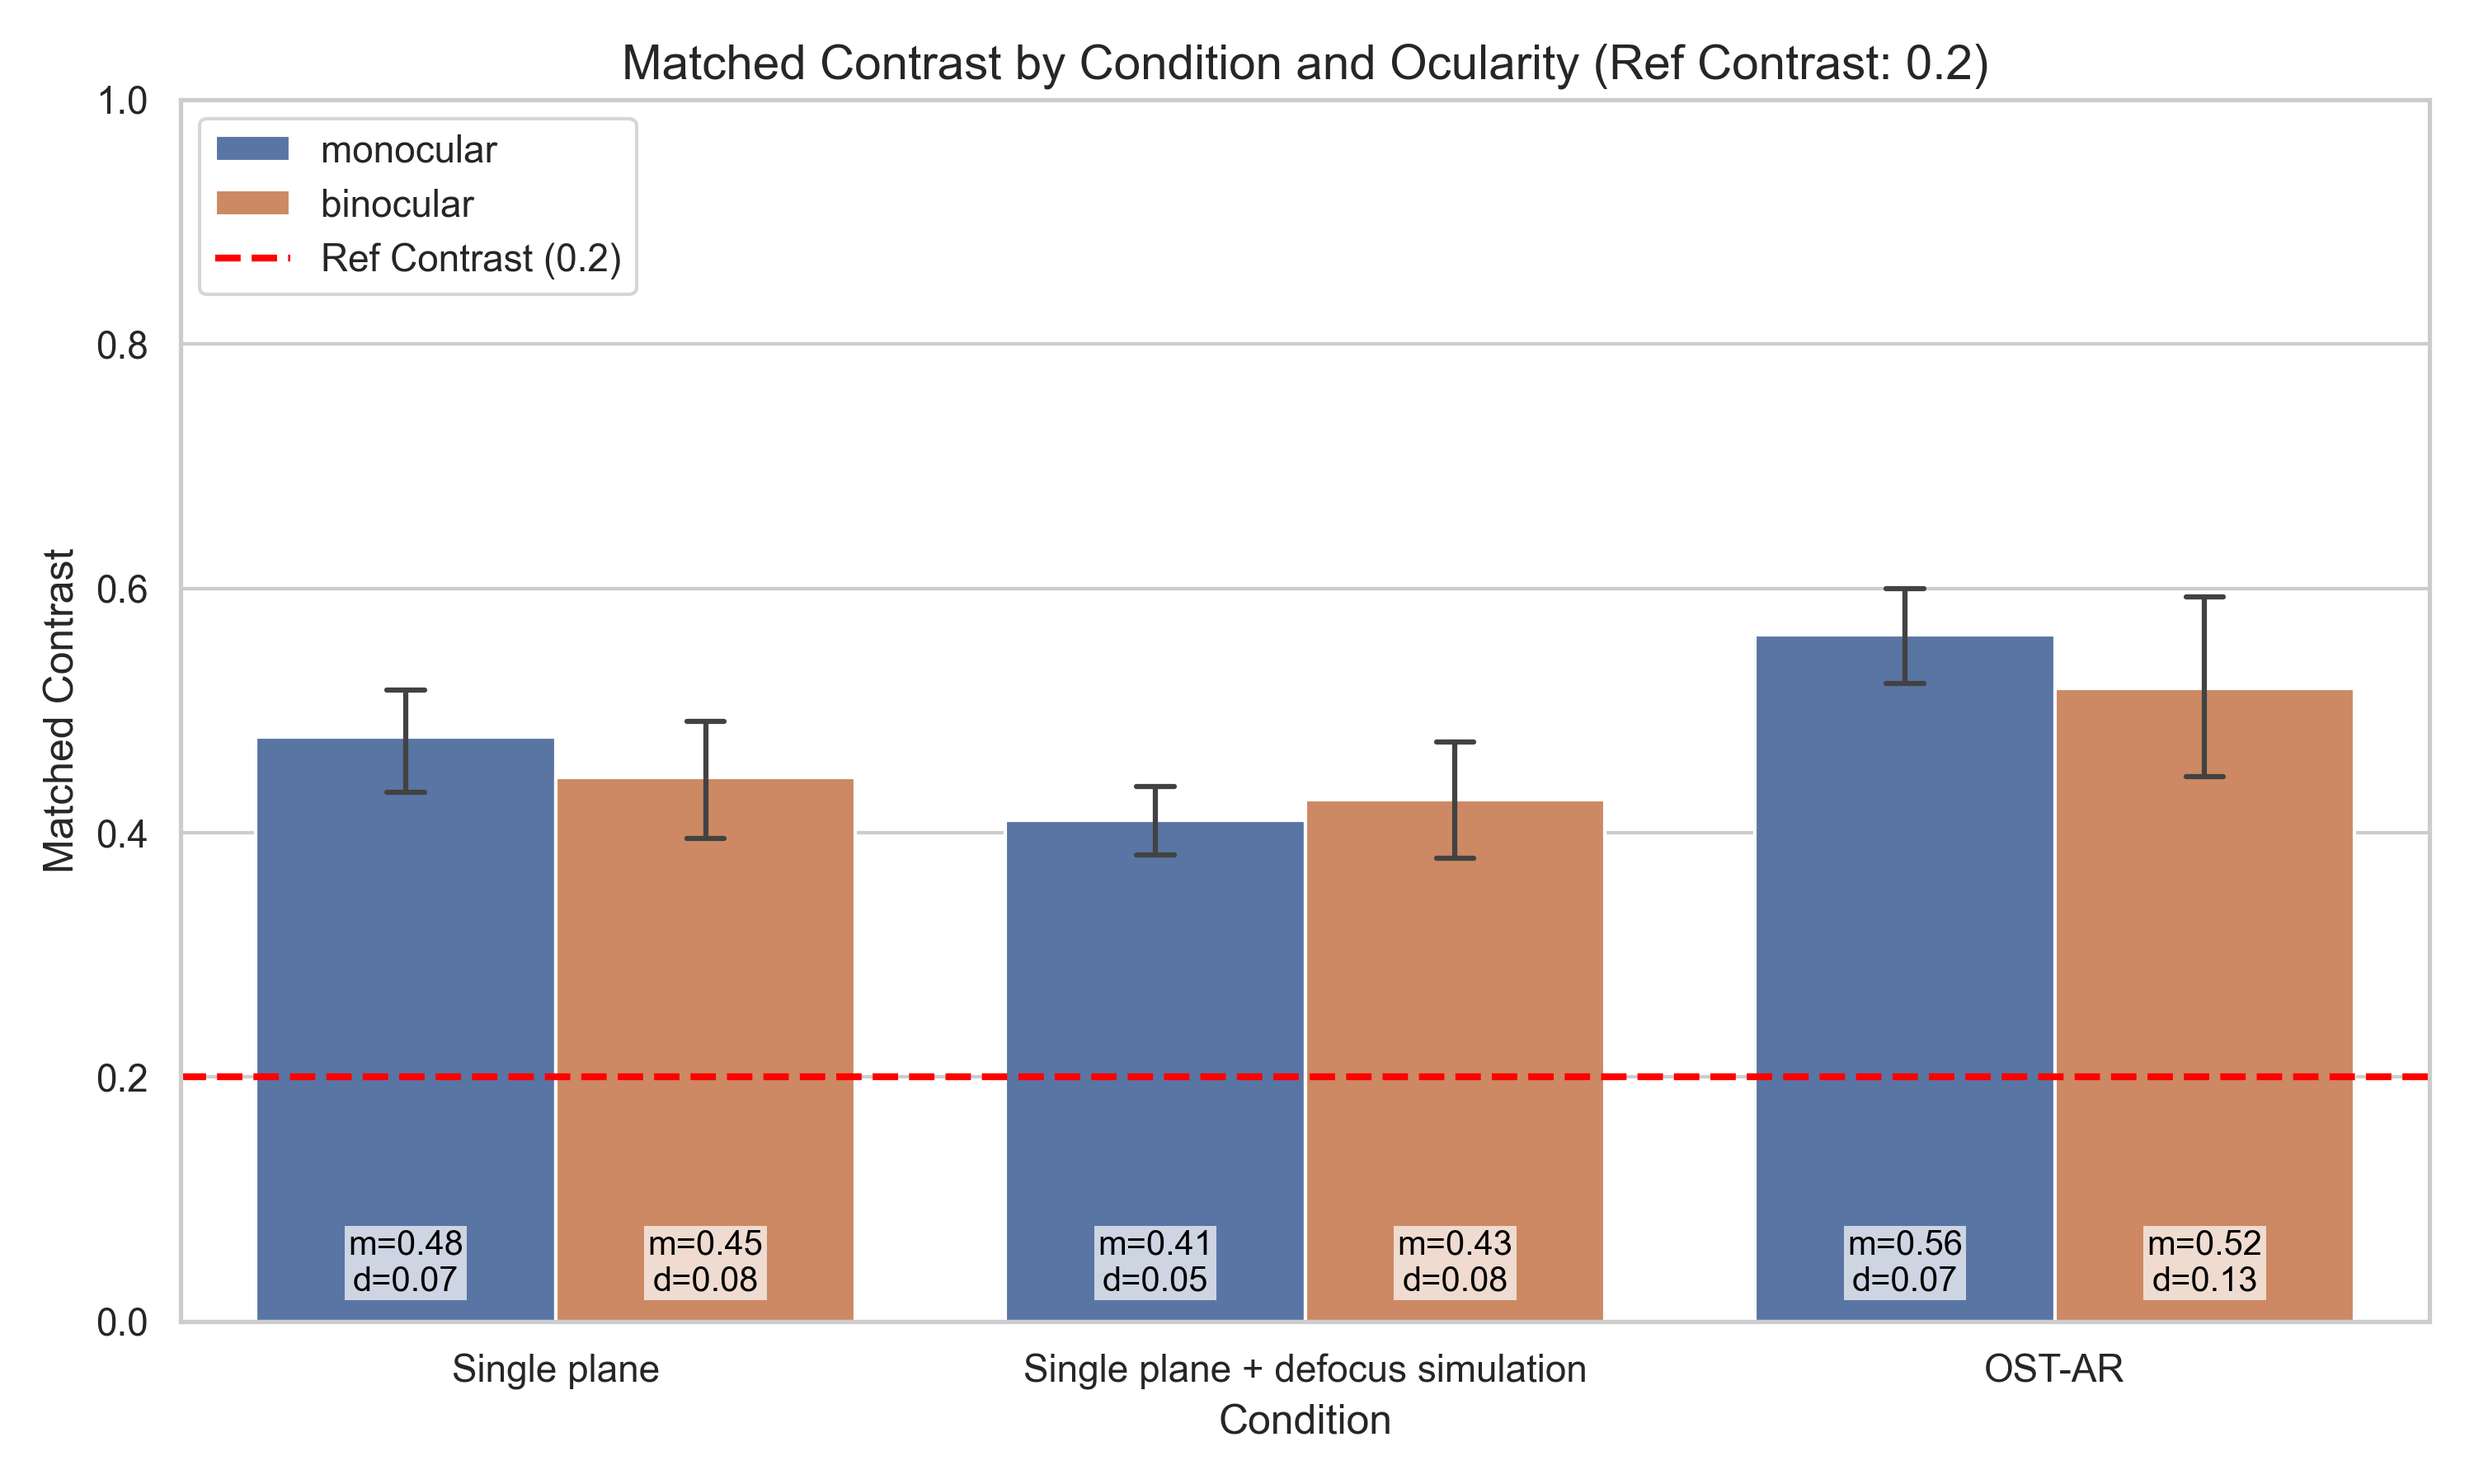
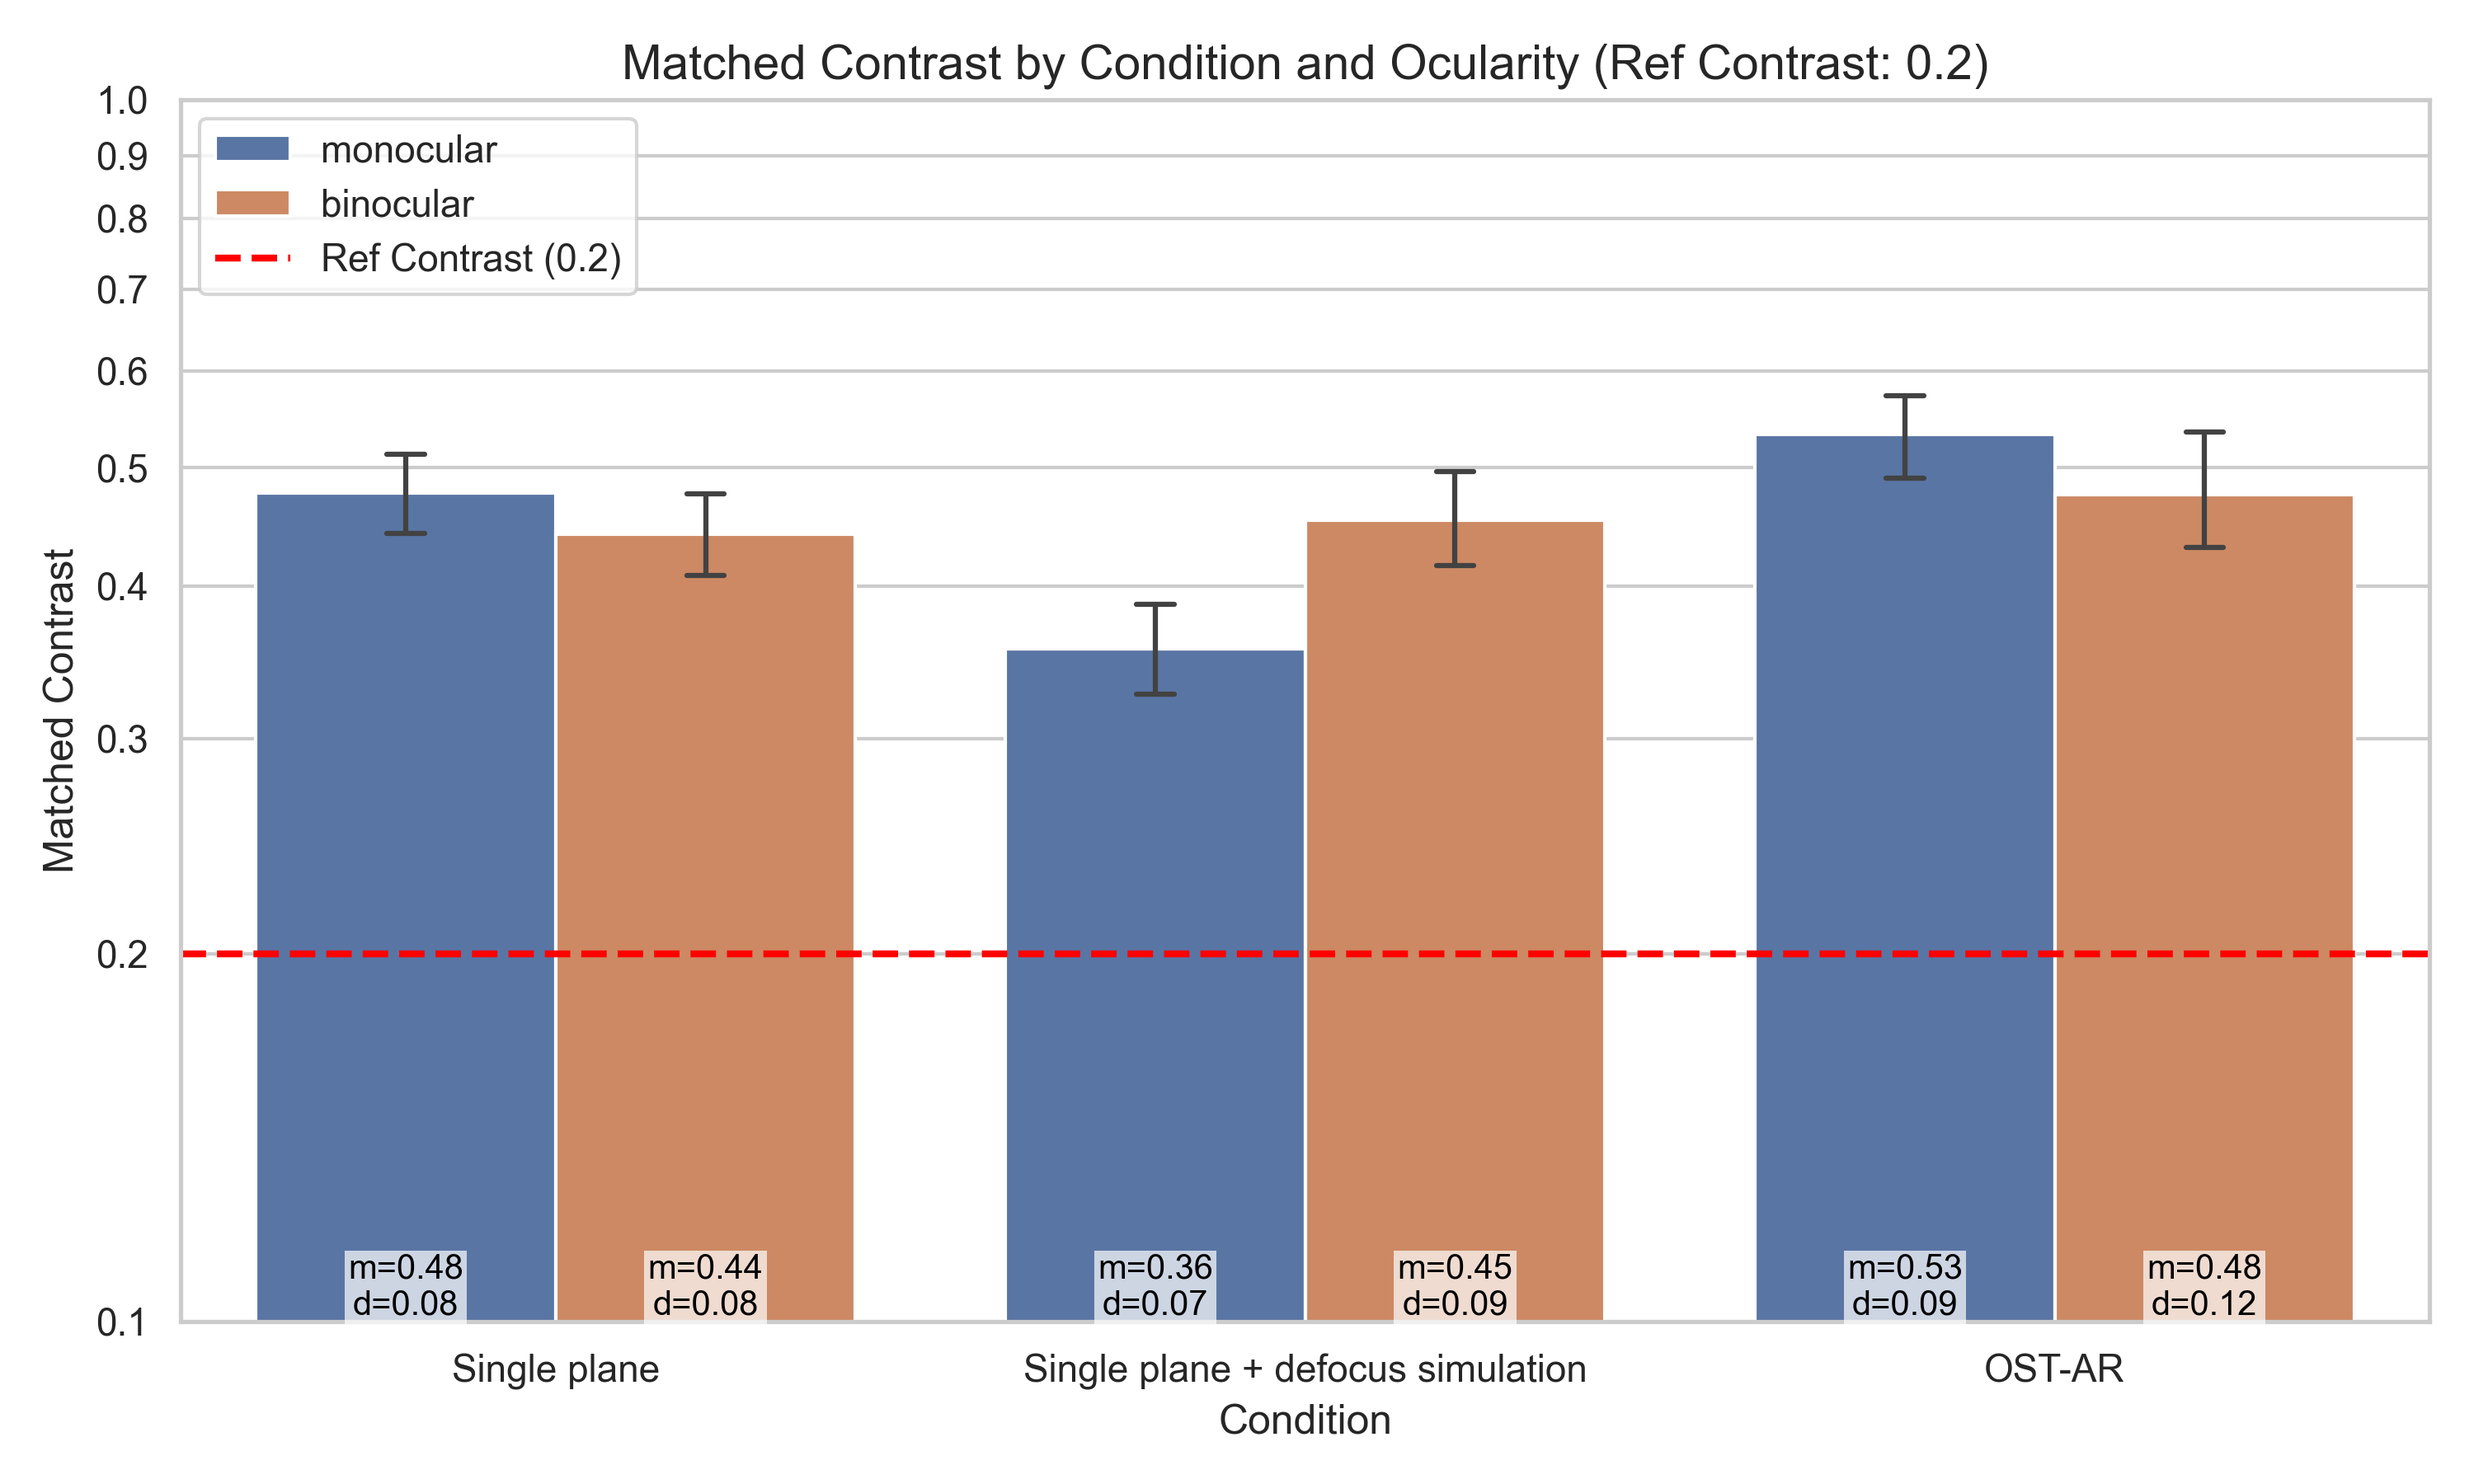
feat: グラフもログスケールにして分析

diff --git a/src/experiment/pre-analyze/pre-analyze-matching.py b/src/experiment/pre-analyze/pre-analyze-matching.py
@@ -1,6 +1,7 @@
 # py .\src\experiment\pre-analyze\pre-analyze-matching.py
 import pandas as pd
 import matplotlib.pyplot as plt
+import matplotlib.ticker as ticker
 import seaborn as sns
 import os
 import glob
@@ -120,7 +121,7 @@ for ref_c in unique_ref_contrasts:
                         d = subset['Matched_Contrast'].std() 
                         
                         x = p.get_x() + p.get_width() / 2
-                        y = 0.02  # バーの足元付近
+                        y = 0.1  # バーの足元付近 (ログスケールに合わせて調整)
                         
                         ax.text(x, y, f"m={m:.2f}\nd={d:.2f}", ha='center', va='bottom', color='black', fontsize=10,
                                 bbox=dict(facecolor='white', alpha=0.7, edgecolor='none', pad=1))
@@ -130,9 +131,14 @@ for ref_c in unique_ref_contrasts:
     ax.set_title(f'Matched Contrast by Condition and Ocularity (Ref Contrast: {ref_c})', fontsize=14)
     ax.set_ylabel('Matched Contrast', fontsize=12)
     ax.set_xlabel('Condition', fontsize=12)
-    ax.set_ylim(0, 1.0) # コントラストは0.0〜1.0なので固定すると見やすい
+    ax.set_yscale('log') # 縦軸をログスケールに設定
+    ax.set_ylim(0.1, 1.0) # コントラストの最小値を0.1に固定
     
-    # x軸のラベルを見やすく改行
+    # y軸の数字を指数表記ではなく通常の小数表記にし、目盛りを細かく表示する
+    ax.set_yticks([0.1, 0.2, 0.3, 0.4, 0.5, 0.6, 0.7, 0.8, 0.9, 1.0])
+    ax.yaxis.set_major_formatter(ticker.FormatStrFormatter('%.1f'))
+    
+    # x軸のラベルをそのまま表示（回転なし）
     labels = ax.get_xticklabels()
     ax.set_xticklabels(labels)
     
